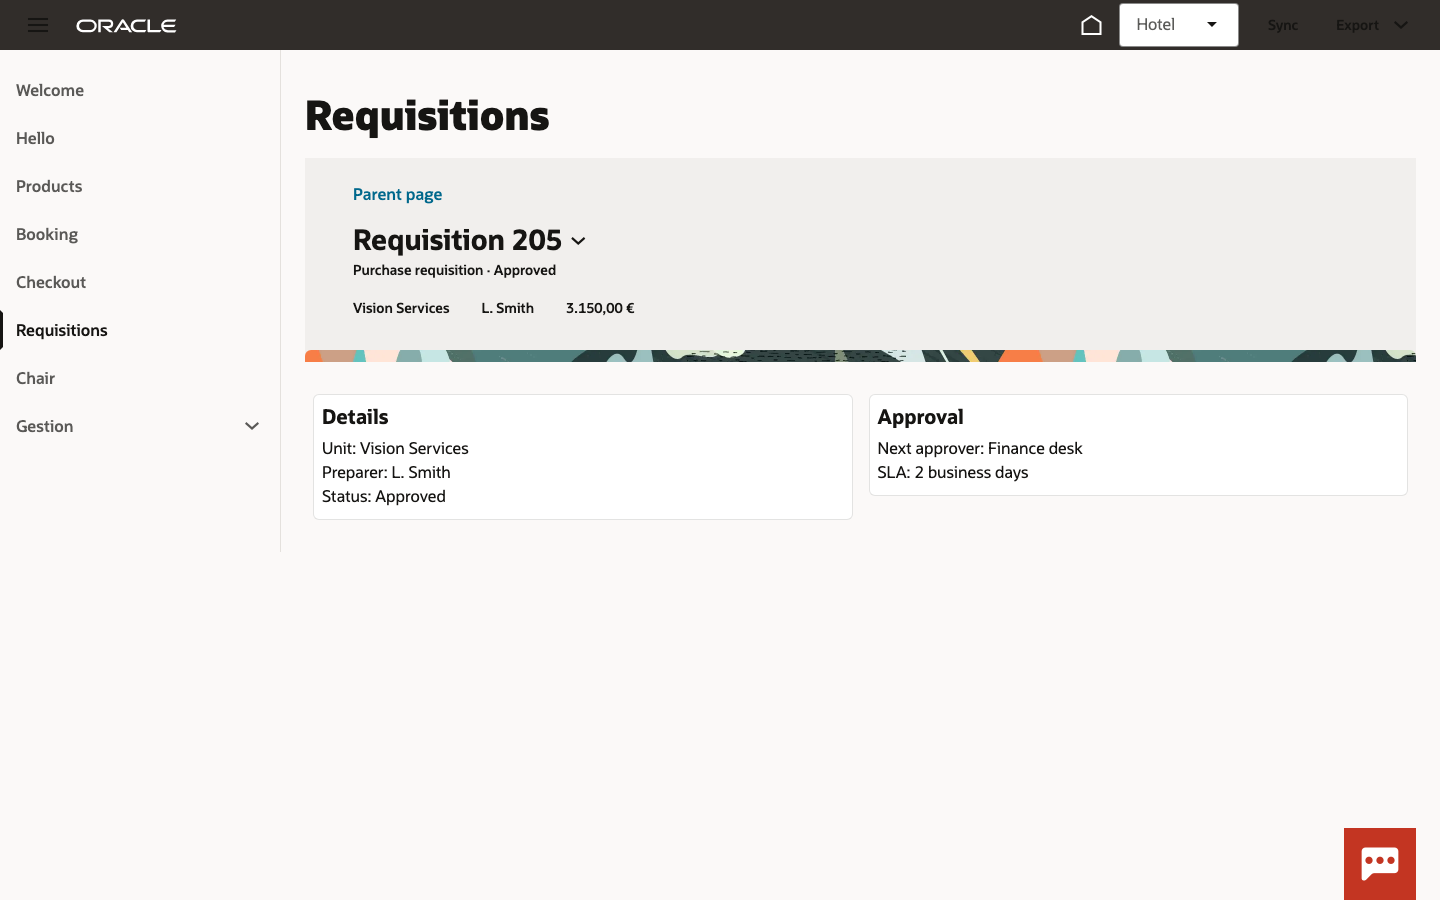
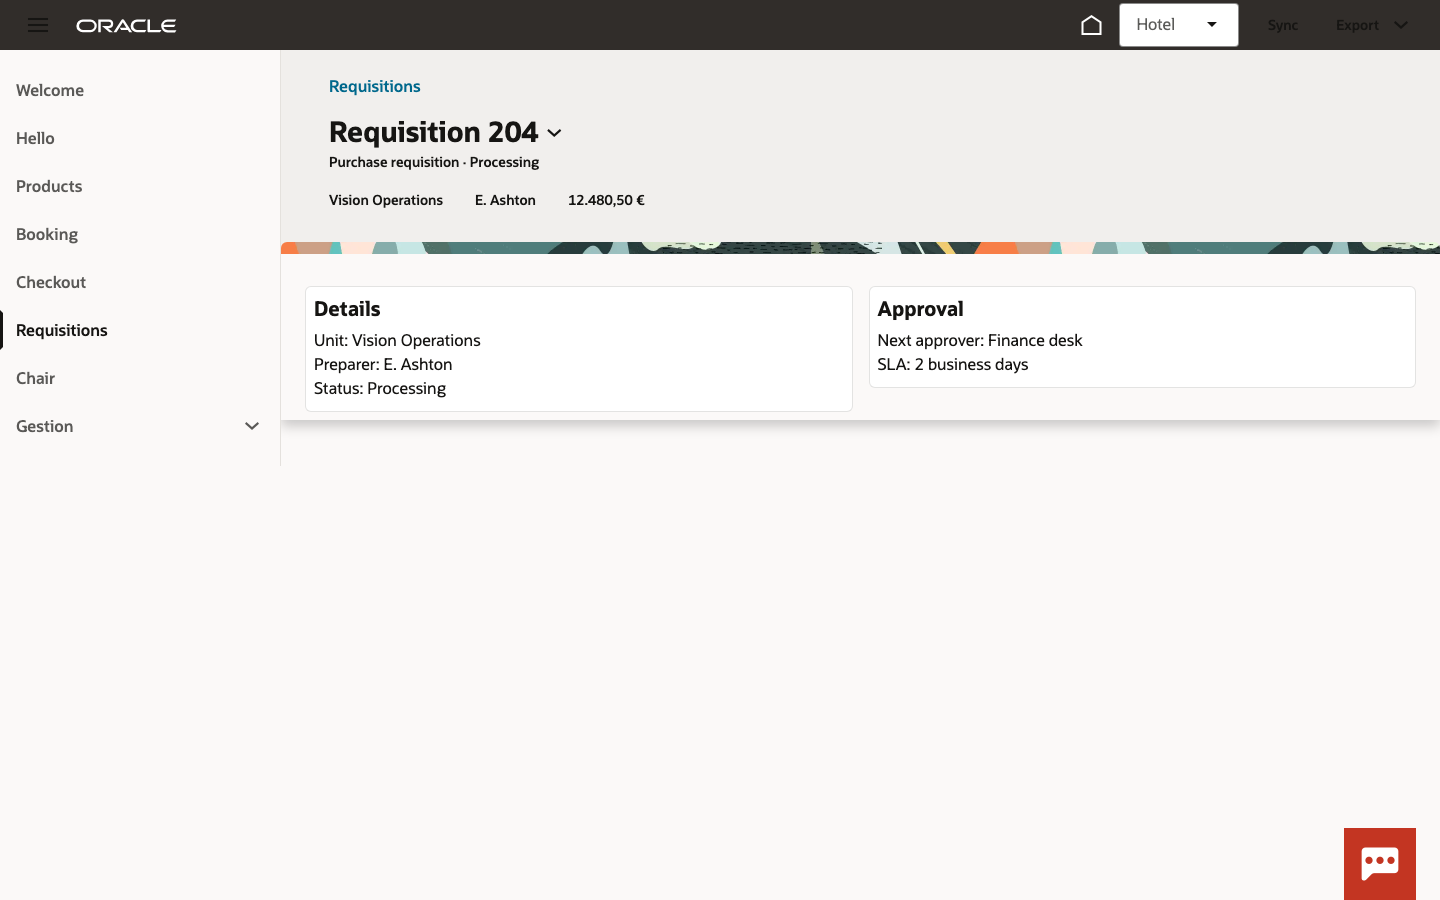
fix(vb): regla de headers Redwood — sin h1 duplicado, header a sangre, titulo integrado como parent link
Feedback del usuario: si la pagina trae header Redwood, ese ES el header. Implementado:
- h1 suprimido cuando hay wizard/overview/welcome (regla general, no caso a caso).
- El titulo de pagina se integra en el header del general-overview como parent-page
  link (translations.goToParent — sin HTML propio).
- Header a sangre: padding del contenedor a 0 cuando hay header Redwood; el contenido
  inferior recupera gutters con clases utilitarias del sistema (oj-sm-padding-4x-horizontal).
Verificado: requisitions y welcome sin h1, headers flush (0,0), 'Requisitions' como
parent link; Person conserva su h1 y padding. Capturas arch-*.png regeneradas.

Changed region(s): [[0.1875, 0.0933, 1.0, 0.56]]

diff --git a/.dev/vb/mateu-vb/webApps/vbredwoodapp/flows/main/pages/main-start-page.html b/.dev/vb/mateu-vb/webApps/vbredwoodapp/flows/main/pages/main-start-page.html
@@ -10,7 +10,9 @@
   :style.padding="[[ $application.variables.mateuPagePadding ]]">
 <!-- el h1 de página SOBRA en un wizard: el guided-process ya lleva el título
      (overview + cabecera propia) -->
-<oj-bind-if test="[[ !$application.variables.mateuWizard ]]">
+<!-- regla general: una página CON header Redwood (wizard/overview/welcome) no lleva
+     h1 propio — lo que hubiera en él se integra en el header Redwood -->
+<oj-bind-if test="[[ !$application.variables.mateuWizard && !$application.variables.mateuOverview && !$application.variables.mateuWelcome ]]">
 <div class="oj-flex">
   <h1 class="oj-flex-item oj-sm-12 oj-md-12"><oj-bind-text value="[[ $application.variables.mateuHostTitle ]]"></oj-bind-text></h1>
 </div>
@@ -65,7 +67,7 @@
     secondary-action="[[ $application.variables.mateuWelcome.secondaryCta ]]"
     on-sp-primary-action="[[ $listeners.welcomePrimary ]]"
     on-sp-secondary-action="[[ $listeners.welcomeSecondary ]]"></oj-sp-header-welcome-banner>
-  <div class="oj-flex oj-sm-margin-6x-top">
+  <div class="oj-flex oj-sm-margin-6x-top oj-sm-padding-4x-horizontal">
     <oj-bind-for-each data="[[ $application.variables.mateuWelcome.tiles ]]">
       <template>
         <div class="oj-flex-item oj-sm-12 oj-md-4">
@@ -91,8 +93,9 @@
     contextual-info="[[ $application.variables.mateuOverview.facts ]]"
     select-object="[[ $variables.overviewSelectConfig ]]"
     select-object-value="[[ $application.variables.mateuOverview.switcherValue ]]"
+    translations="[[ $application.variables.mateuOverviewTranslations ]]"
     on-select-object-value-changed="[[ $listeners.overviewSwitched ]]"></oj-sp-header-general-overview>
-  <div class="oj-flex oj-sm-margin-6x-top">
+  <div class="oj-flex oj-sm-margin-6x-top oj-sm-padding-4x-horizontal">
     <oj-bind-for-each data="[[ $application.variables.mateuOverview.cards ]]">
       <template>
         <div class="oj-flex-item oj-sm-12 oj-md-6">

diff --git a/.dev/vb/mateu-vb/webApps/vbredwoodapp/pages/shell-page-chains/onMateuNavigate.js b/.dev/vb/mateu-vb/webApps/vbredwoodapp/pages/shell-page-chains/onMateuNavigate.js
@@ -93,6 +93,7 @@ define([
 
       const summary = bridge.summarizeHost(reg, route);
       $application.variables.mateuHostTitle = summary.title;
+      $application.variables.mateuOverviewTranslations = { goToParent: summary.title };
       $application.variables.mateuHostText = summary.text;
       $application.variables.mateuFormMetadata = summary.formMetadata;
       $application.variables.mateuFormFieldsList = summary.fields;
@@ -161,6 +162,10 @@ define([
       $application.variables.mateuPageMaxWidth = pageStyle.maxWidth;
       $application.variables.mateuPageMargin = pageStyle.margin;
       $application.variables.mateuPagePadding = pageStyle.padding;
+      if ($application.variables.mateuWelcome || $application.variables.mateuOverview
+          || $application.variables.mateuWizard) {
+        $application.variables.mateuPagePadding = '0';
+      }
       // 1.5: la URL refleja la ruta (hash — deep-linkable y con back/forward)
       if (!fromUrl && window.location.hash !== '#' + route) {
         window.history.pushState(null, '', '#' + route);

diff --git a/.dev/vb/DESIGN-NOTES.md b/.dev/vb/DESIGN-NOTES.md
@@ -436,6 +436,15 @@ el kit + apuntar a un Mateu → pantalla con look Redwood nativo, cero código p
   demo), edgeToEdge = 0 (Booking mide padding 0). Medición RDS 24C.
 - Tests 21/21. Evidencia: `shots/gates-banner.png` (banner INFO Redwood en Hello).
 
+## Regla de headers Redwood (feedback del usuario, 2026-07-25)
+
+**Una página con header Redwood (wizard/general-overview/welcome) NO lleva h1 propio** — lo que
+hubiera en el header de página se INTEGRA en el header Redwood (p.ej. el título de página va
+como parent-page link del `oj-sp-header-general-overview`, vía `translations.goToParent`), y el
+header va A SANGRE (sin padding arriba ni a los lados): las proyecciones fuerzan
+`mateuPagePadding='0'` cuando hay header Redwood y el contenido inferior recupera los gutters
+con clases utilitarias del sistema (`oj-sm-padding-4x-horizontal`). Cero CSS propio.
+
 ## Arquetipos Welcome / General Overview / Item Overview — HECHOS (pendiente de verificación)
 
 - Confirmada la tesis del diseño: los tres son COMPOSICIÓN del núcleo — welcome = HeroSection +
